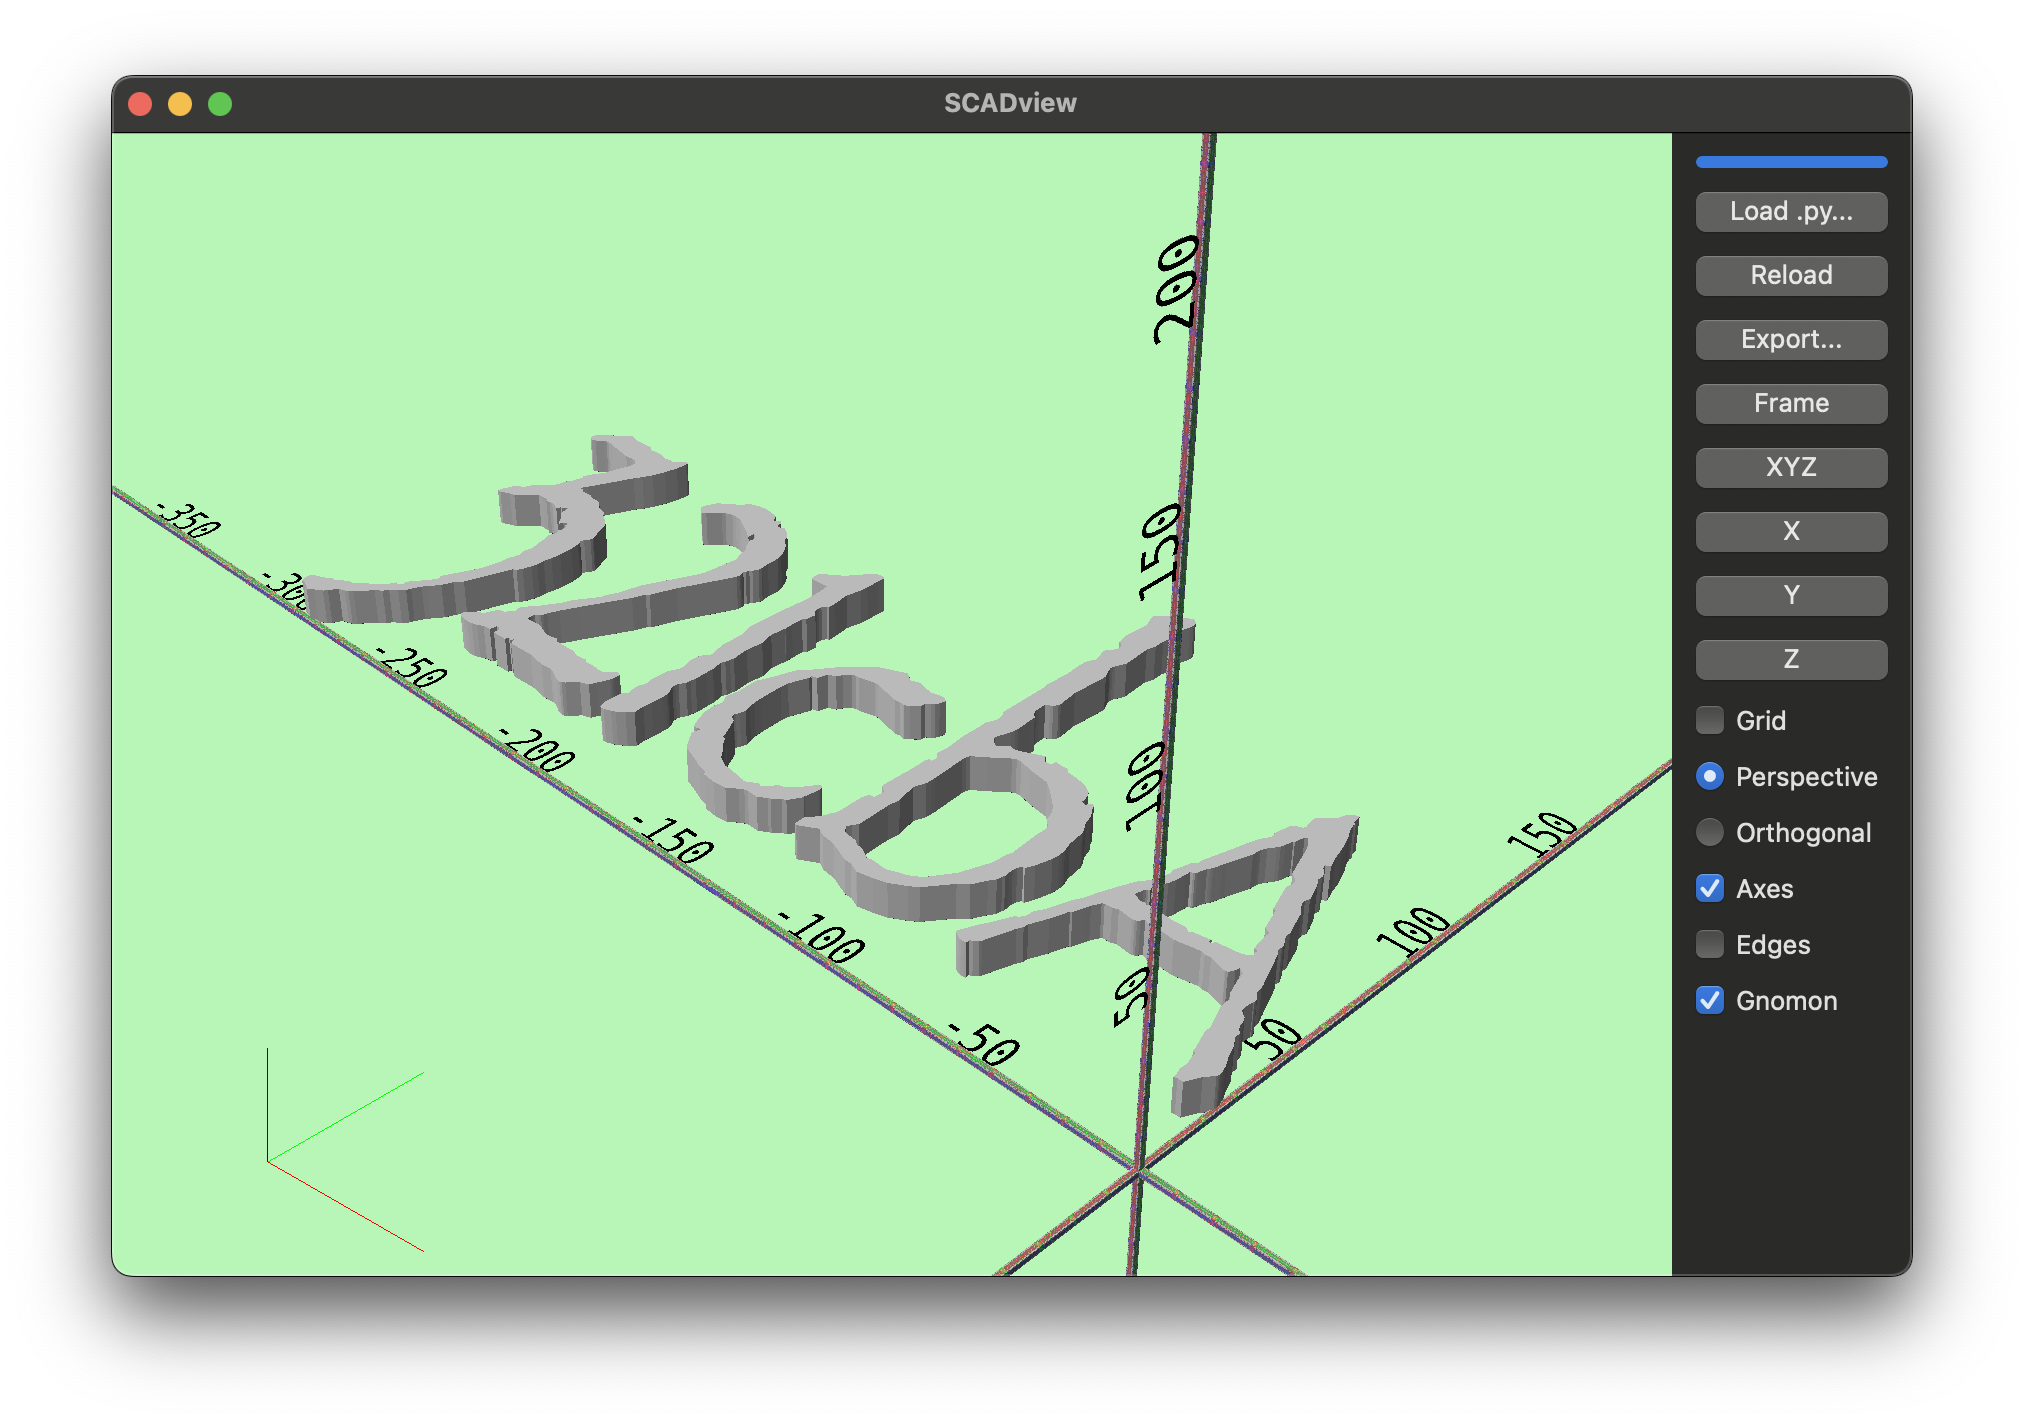
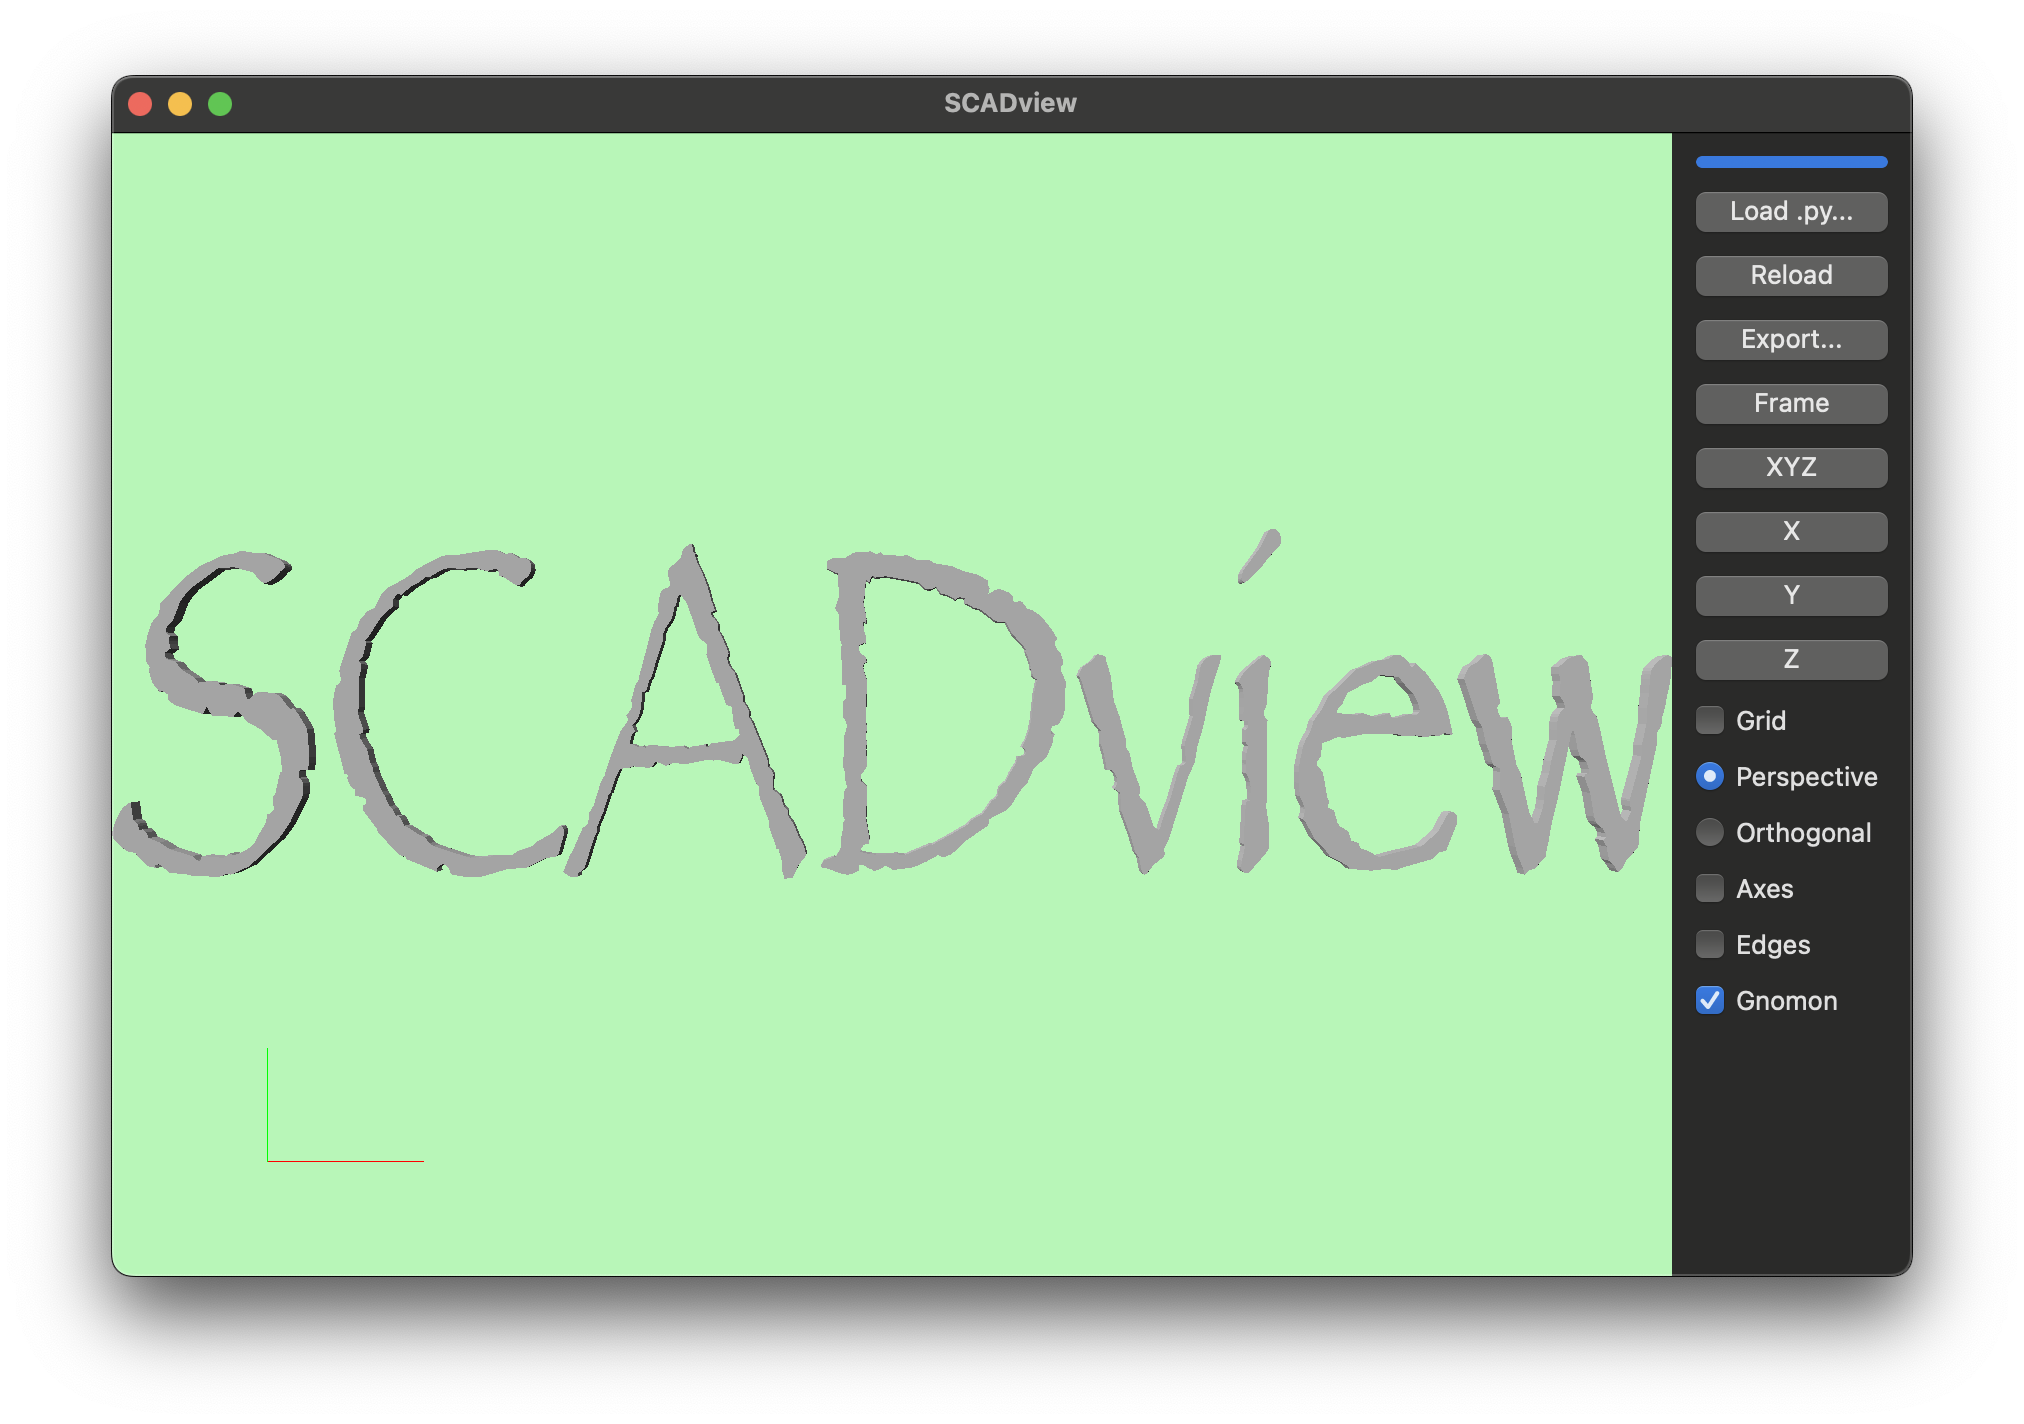
Change text in text.py

diff --git a/examples/text.py b/examples/text.py
@@ -2,7 +2,7 @@ from scadview import text
 
 
 def create_mesh():
-    t = "Abc123"
+    t = "SCADview"
     font = "Papyrus:style=Condensed"
     return text(
         t,
@@ -10,5 +10,5 @@ def create_mesh():
         size=100,
         valign="bottom",
         halign="right",
-        direction="rtl",
+        direction="ltr",
     ).apply_scale((1.0, 1.0, 10.0))
